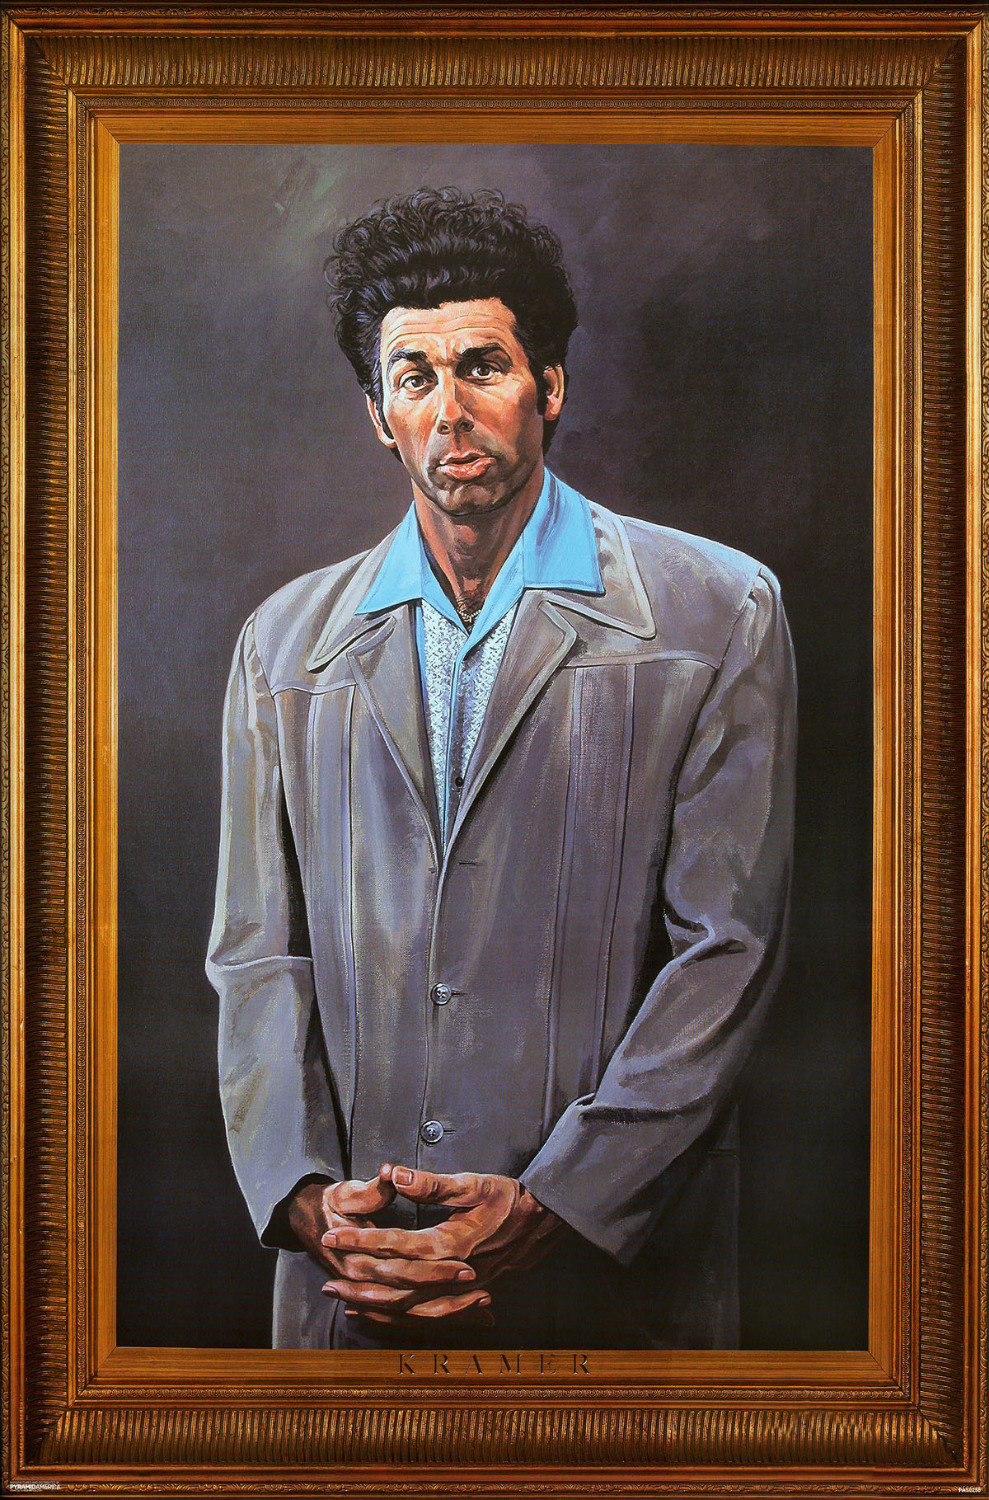
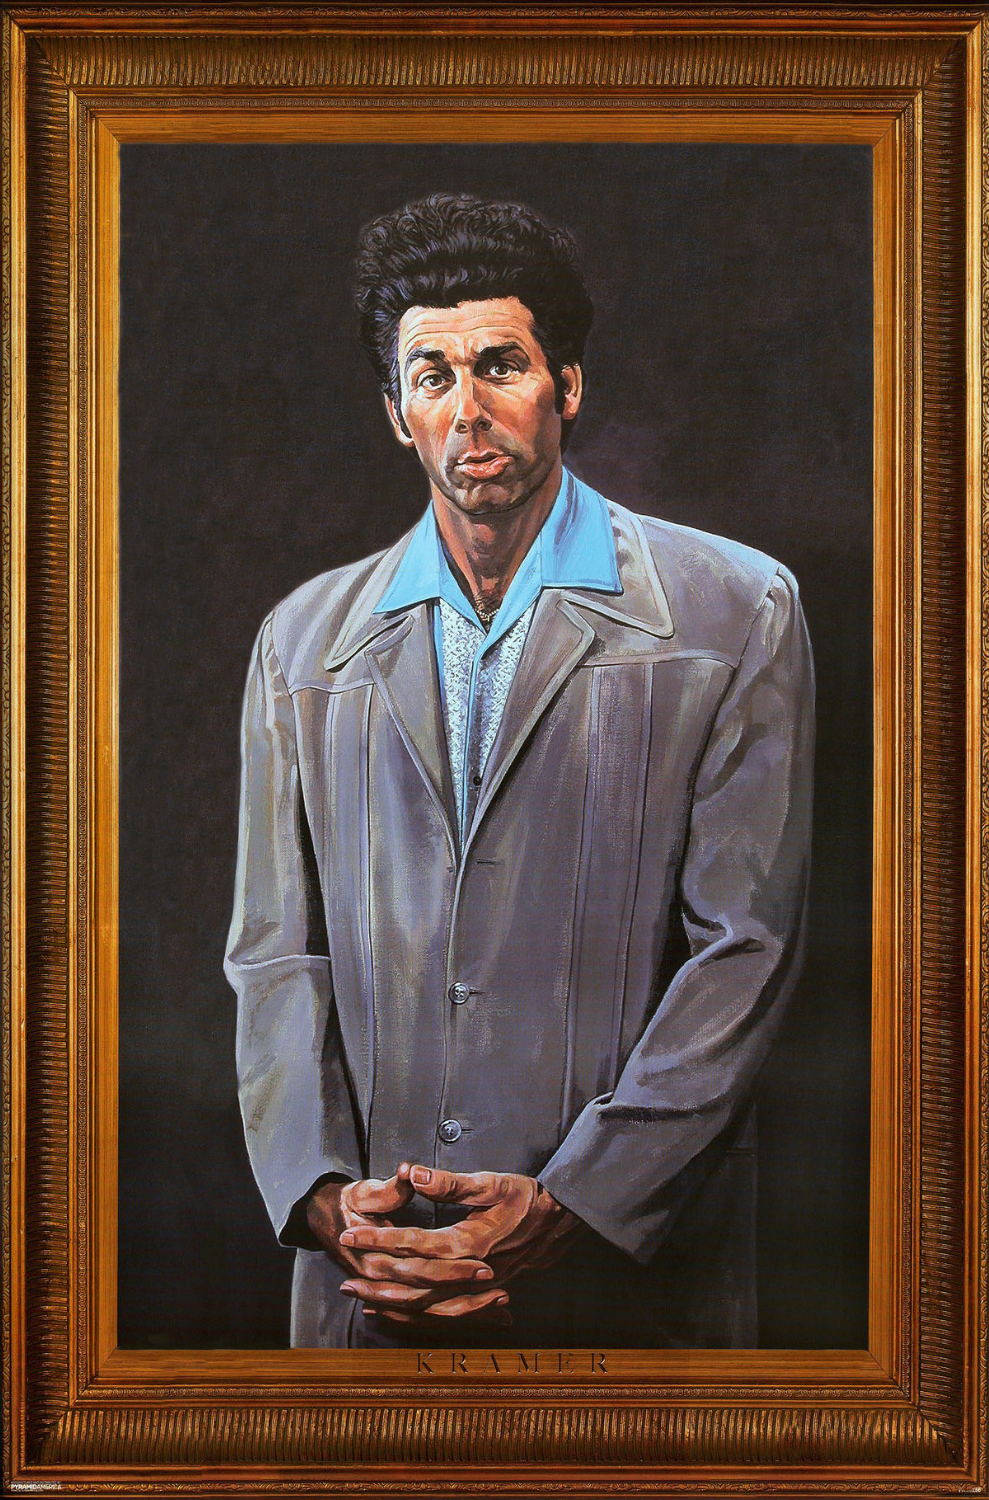
exaggerate resize to test

diff --git a/server.py b/server.py
@@ -36,7 +36,7 @@ def getKramer(faceInfo, position):
 
     masked = Image.open(RIGHT_MASKED_KRAMER if position == 'r' else CENTRE_MASKED_KRAMER)
     cropped = Image.open(RIGHT_CROPPED_KRAMER if position == 'r' else CENTRE_CROPPED_KRAMER)
-
+    print(face.size)
     background = Image.new("RGBA", masked.size)
     background.paste(face, (180,310))
     final = Image.new("RGBA", masked.size)
@@ -86,7 +86,7 @@ def addFace():
         x1, y1, x2, y2 = tuple(result[0]['faceRectangle'].values())
         person = Image.open(requests.get(url, stream=True).raw)
         face = person.crop((y1,x1,y1+y2,x1+x2))
-        faces[user] = face.resize((210,210), Image.ANTIALIAS)
+        faces[user] = face.resize((400,400), Image.ANTIALIAS)
     elif user in faces:
         del faces[user]
 
